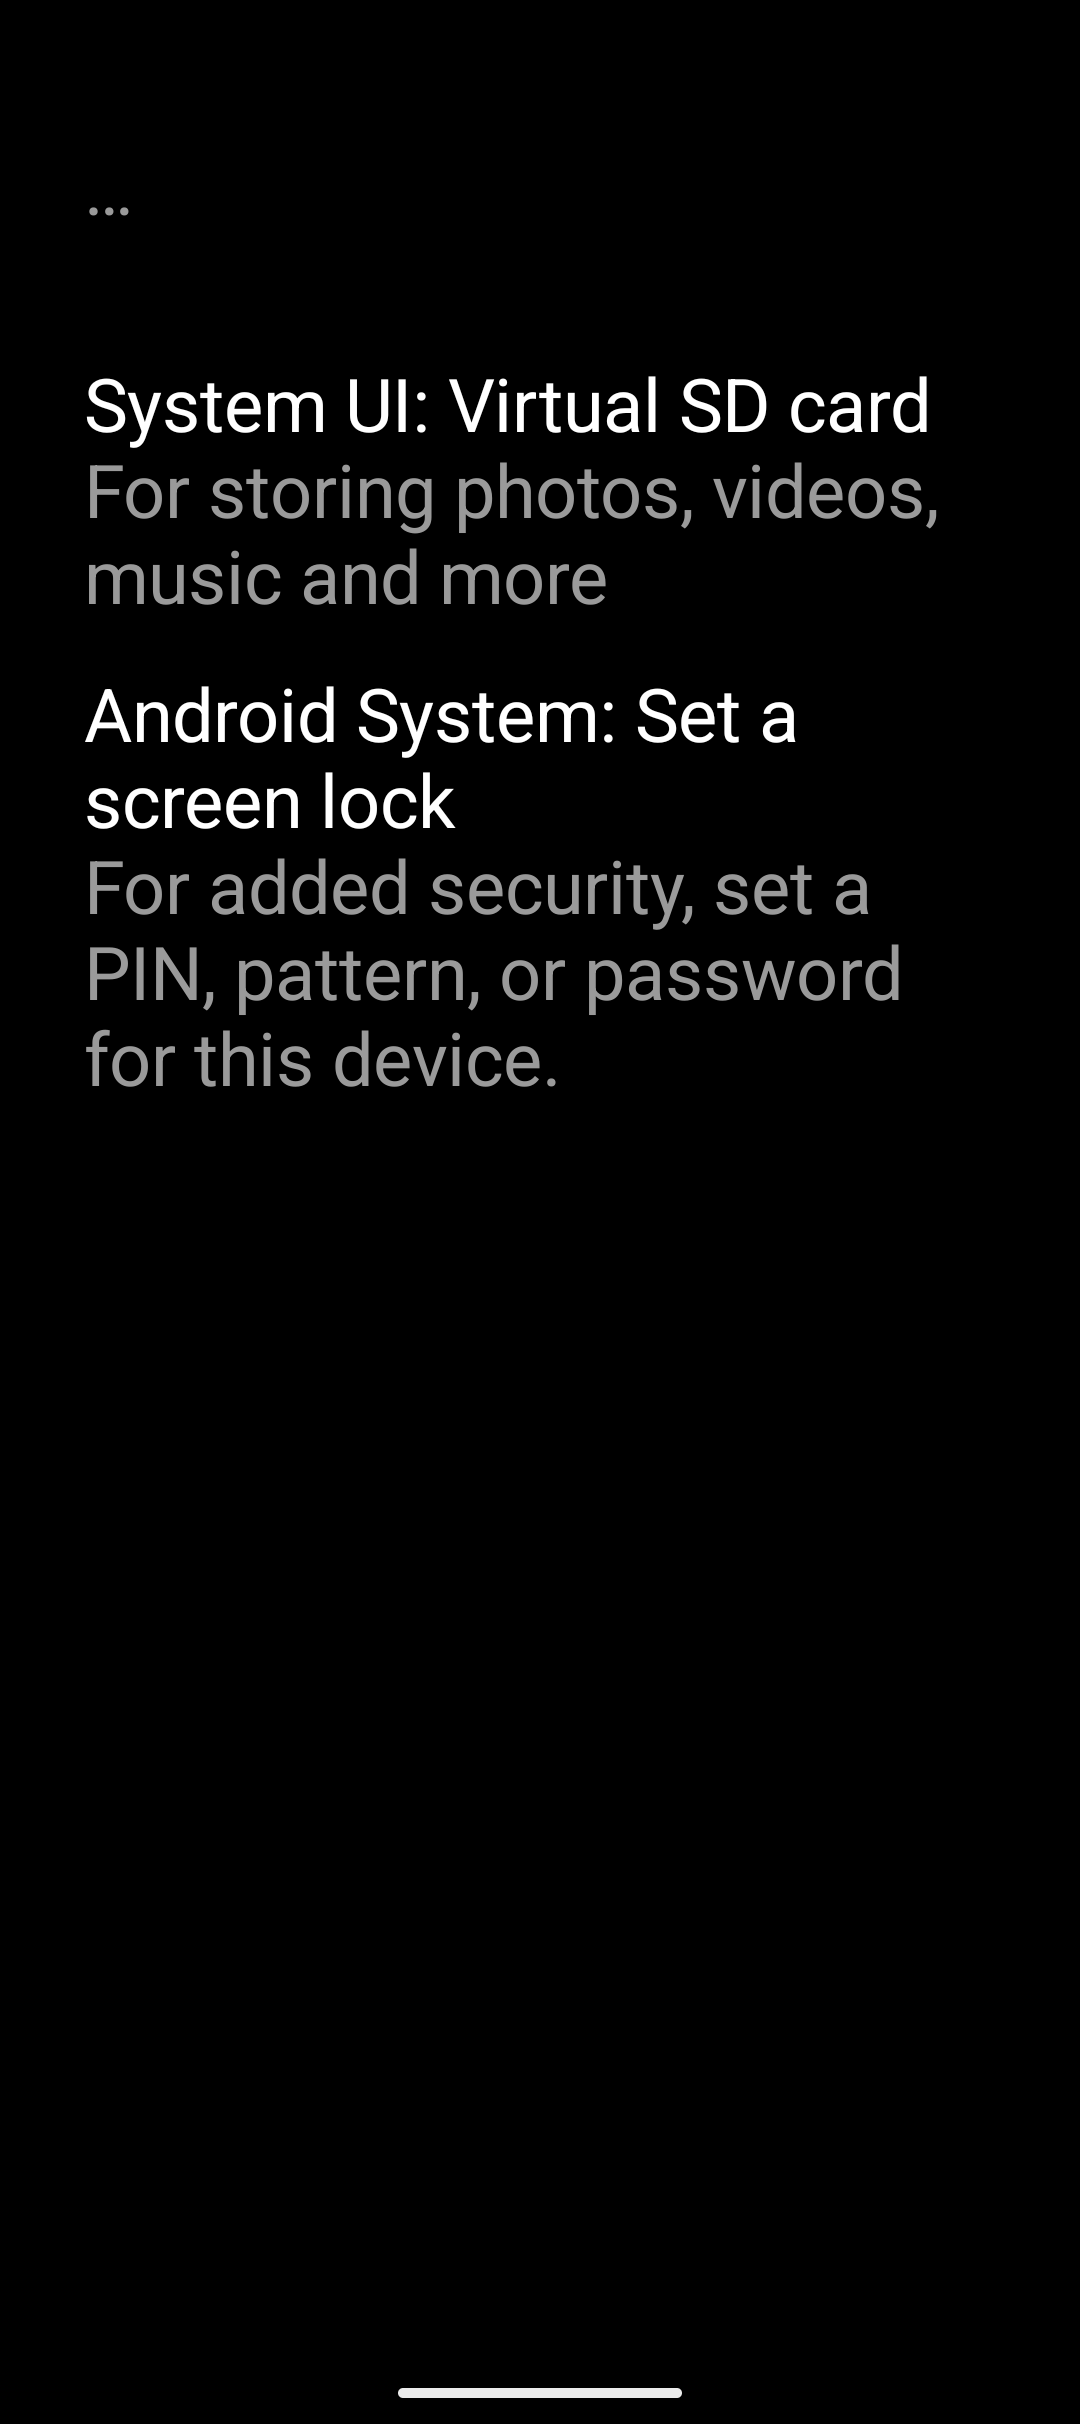
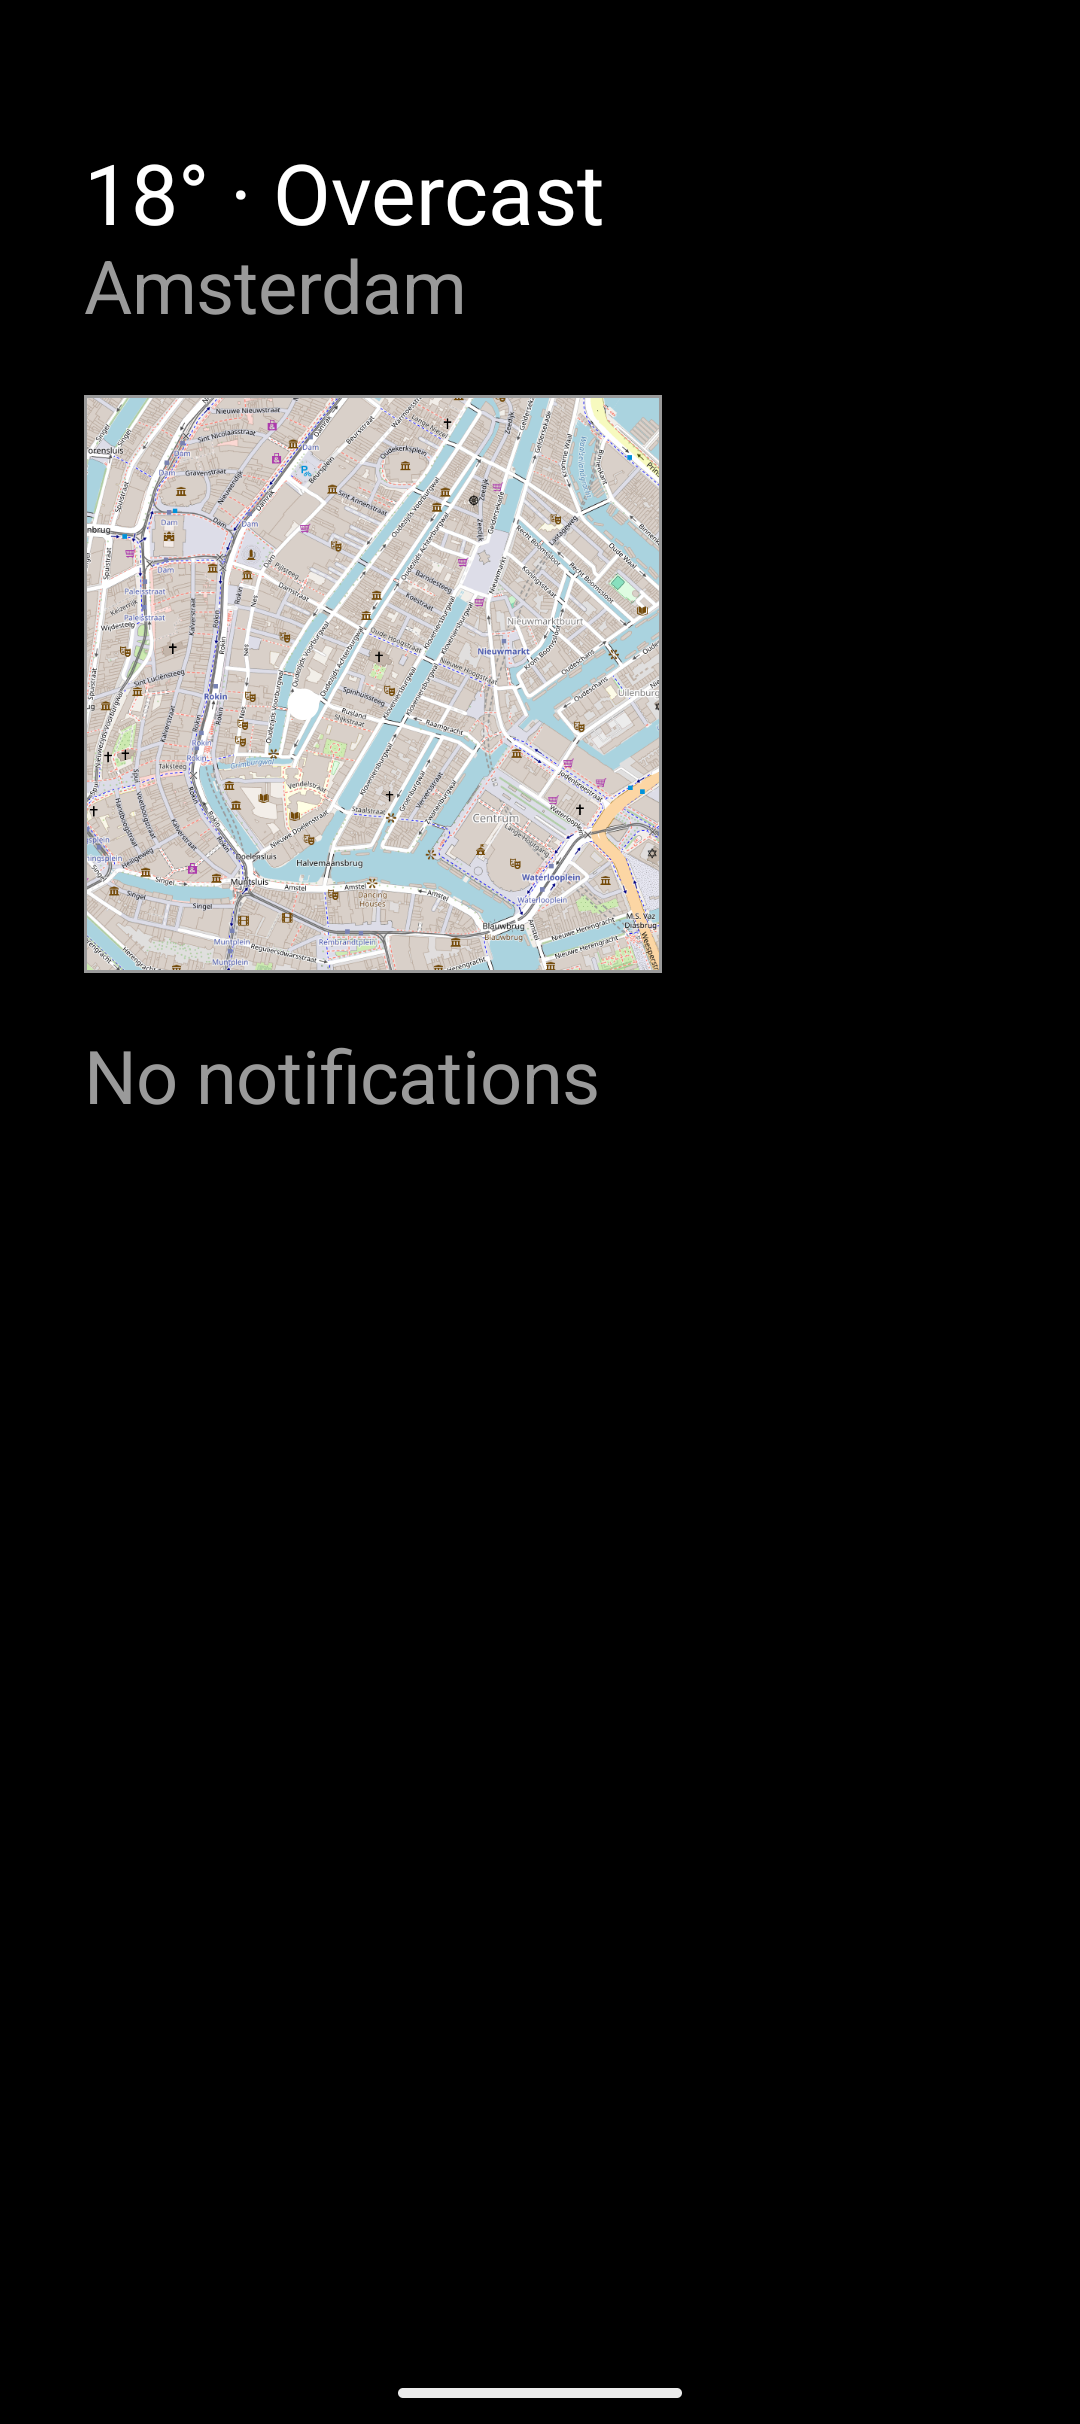
Request high-accuracy location instead of balanced power
PRIORITY_BALANCED_POWER_ACCURACY resolves through network-based
positioning, which the emulator can't synthesize from a mock GPS fix
(geo fix / Extended Controls location) — its cached location provider
never updated no matter what was set, leaving weather and the map
permanently "unavailable" there. PRIORITY_HIGH_ACCURACY uses GPS
directly, which the emulator's mock location does feed correctly, and
is a reasonable choice anyway for an on-demand "your position on a
map" fetch (not continuous tracking, so the battery cost is a
one-time hit rather than an ongoing one). Verified working end-to-end
on a freshly booted emulator with a set location.

Also updates the README dashboard screenshot, since it now shows the
map that was added but hadn't been captured yet.

Changed region(s): [[0.0611, 0.0619, 0.8556, 0.4641]]

diff --git a/app/src/main/java/nl/petervanmanen/minimalauncher/location/LocationProvider.kt b/app/src/main/java/nl/petervanmanen/minimalauncher/location/LocationProvider.kt
@@ -33,7 +33,7 @@ class LocationProvider(private val context: Context) {
     suspend fun getCurrentLocation(): Location? = withTimeoutOrNull(LOCATION_TIMEOUT_MS) {
         suspendCancellableCoroutine { cont ->
             val cancellationSource = CancellationTokenSource()
-            fusedClient.getCurrentLocation(Priority.PRIORITY_BALANCED_POWER_ACCURACY, cancellationSource.token)
+            fusedClient.getCurrentLocation(Priority.PRIORITY_HIGH_ACCURACY, cancellationSource.token)
                 .addOnSuccessListener { location -> if (cont.isActive) cont.resume(location) }
                 .addOnFailureListener { if (cont.isActive) cont.resume(null) }
             cont.invokeOnCancellation { cancellationSource.cancel() }
